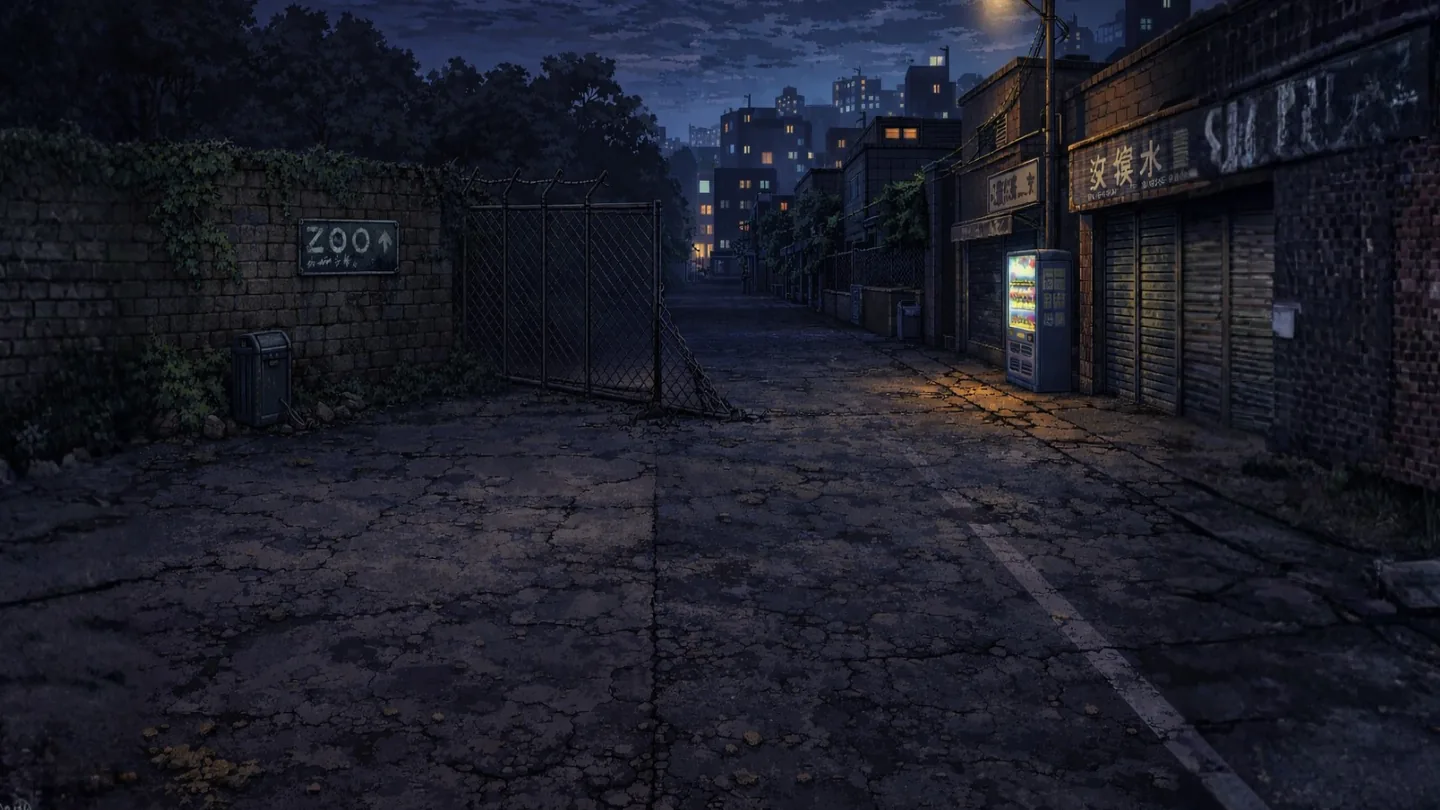
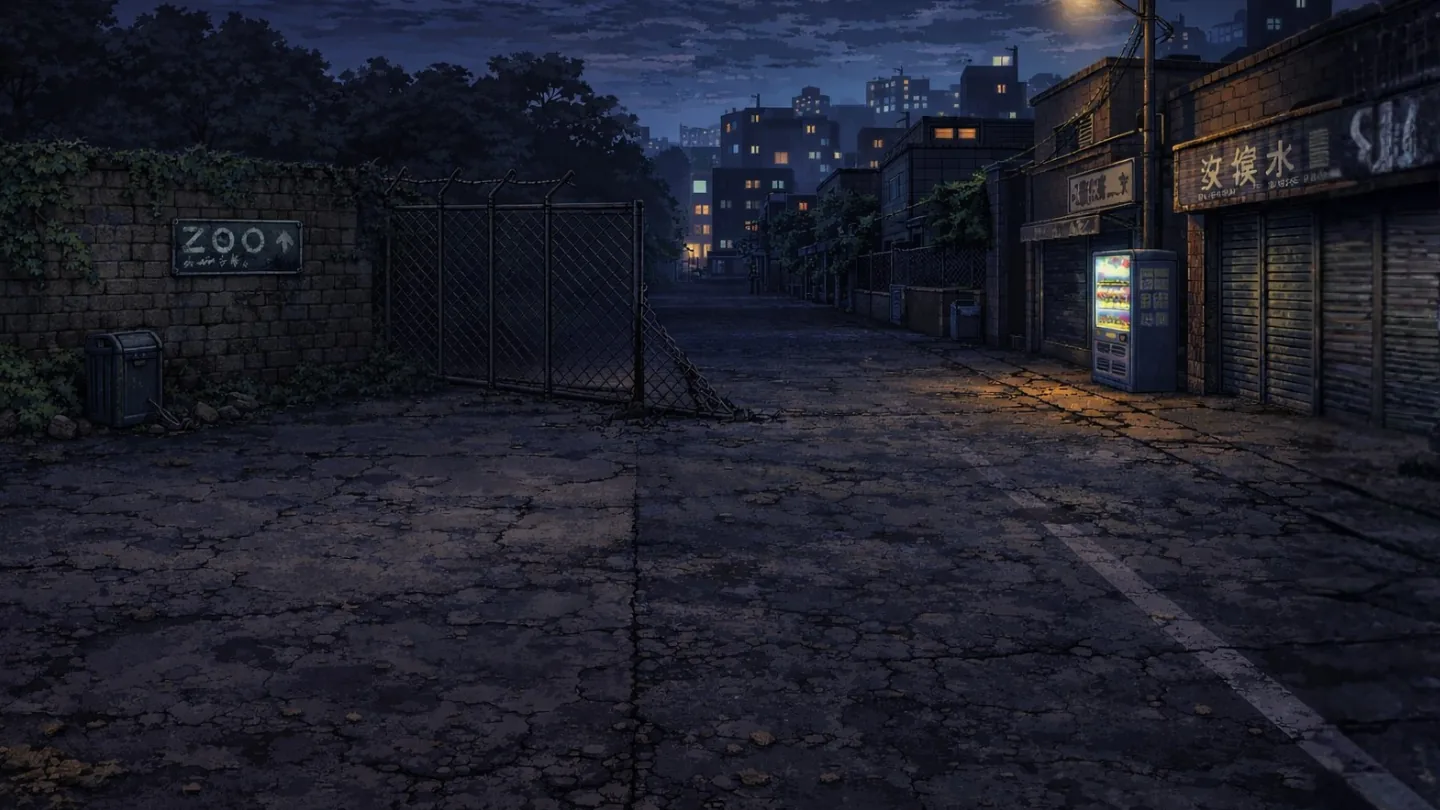
fix: level names, bg swaps (L6/7/8), worldW 2.2x (no more stuck), all bgs centre-cropped (no more squash)

diff --git a/src/config/levels.js b/src/config/levels.js
@@ -33,8 +33,8 @@ export const LEVELS = [
     ],
   },
   {
-    id: 3, zone: 'zoo', name: "The Keeper's Yard",
-    bg: 'bg-zoo3', musicKey: 'music-zoo',   // ⏳ pending
+    id: 3, zone: 'zoo', name: 'The Primate Enclosure',
+    bg: 'bg-zoo3', musicKey: 'music-zoo',
     waves: [
       { count: 6,  hp: 45, speed: 112, damage: 10 },
       { count: 10, hp: 45, speed: 118, damage: 10 },
@@ -42,7 +42,7 @@ export const LEVELS = [
     ],
   },
   {
-    id: 4, zone: 'zoo', name: 'The Primate Enclosure',
+    id: 4, zone: 'zoo', name: 'The Great Escape',
     bg: 'bg-zoo4', musicKey: 'music-zoo',
     waves: [
       { count: 6,  hp: 45, speed: 118, damage: 10 },
@@ -63,8 +63,8 @@ export const LEVELS = [
     ],
   },
   {
-    id: 6, zone: 'escape', name: 'Construction Site',
-    bg: 'bg-escape2', musicKey: 'music-city1',  // ⏳ pending
+    id: 6, zone: 'escape', name: 'Inner City',
+    bg: 'bg-escape3', musicKey: 'music-city1',
     waves: [
       { count: 8,  hp: 45, speed: 128, damage: 10 },
       { count: 12, hp: 45, speed: 132, damage: 10 },
@@ -74,7 +74,7 @@ export const LEVELS = [
   },
   {
     id: 7, zone: 'escape', name: 'Highway Underpass',
-    bg: 'bg-escape3', musicKey: 'music-city2',
+    bg: 'bg-street', musicKey: 'music-city2',
     waves: [
       { count: 8,  hp: 45, speed: 133, damage: 10 },
       { count: 14, hp: 45, speed: 137, damage: 10 },
@@ -84,7 +84,7 @@ export const LEVELS = [
   },
   {
     id: 8, zone: 'escape', name: 'Night Market',
-    bg: 'bg-street', musicKey: 'music-city2',
+    bg: 'bg-escape2', musicKey: 'music-city2',
     enemyType: 'sor',   // 🎮 The Classic Level — Streets of Rage homage
     waves: [
       { count: 10, hp: 45, speed: 142, damage: 10 },
@@ -98,7 +98,7 @@ export const LEVELS = [
 
   // ─── ZONE 3 — INTO THE WILD ───────────────────────────────────────────────
   {
-    id: 9, zone: 'wild', name: 'The Great Escape',
+    id: 9, zone: 'wild', name: 'The Forest',
     bg: 'bg-escape4', musicKey: 'music-forest1',  // ⏳ bg-escape4 pending
     waves: [
       { count: 8,  hp: 45, speed: 138, damage: 10 },

diff --git a/src/scenes/GameScene.js b/src/scenes/GameScene.js
@@ -18,7 +18,7 @@ export default class GameScene extends Phaser.Scene {
 
   create() {
     const { width, height } = this.scale
-    this.worldW = Math.floor(width * 1.30)
+    this.worldW = Math.floor(width * 2.20)
     const worldW = this.worldW
 
     const bgKey = this.textures.exists(this.levelData.bg) ? this.levelData.bg : 'bg-zoo'
